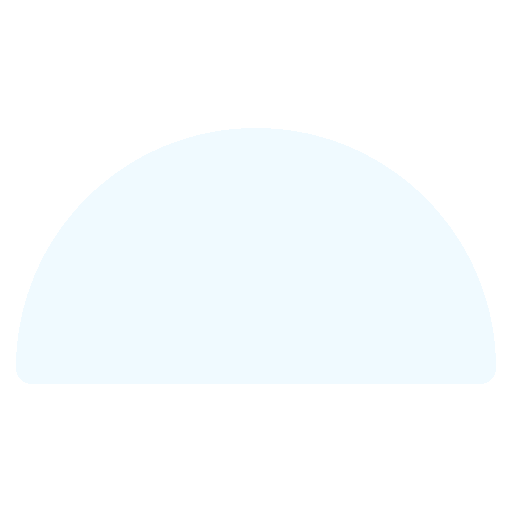
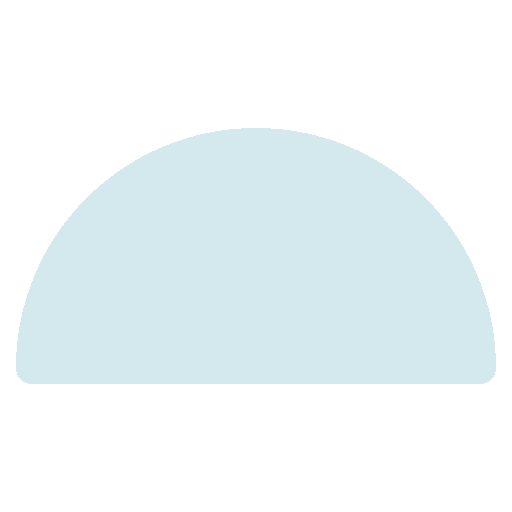
new css changes

diff --git a/css/style.css b/css/style.css
@@ -61,17 +61,17 @@ body img {
 }
 .TopNav div:nth-child(1) {
   /* background-color: #dbe6eb; */
-  background-color: #f1fbfe;
+  background-color: #ddf5fc;
 }
 .TopNav div:nth-child(2) {
   /* background-color: #c6deea; */
-  background-color: #e7f1f4;
+  background-color: #d8eef5;
 }
 .TopNav div:nth-child(3) {
   /* background-color: #bcd9e8; */
-  background-color: #e3edef;
+  background-color: #d2e9ee;
   /*border-bottom: 1vh solid #88afc2; */
-  border-bottom: 1vh solid rgb(192, 205, 212);
+  border-bottom: 1vh solid rgb(173, 192, 203);
 }
 
 .MainContent {
@@ -90,15 +90,15 @@ body img {
 }
 .BottomNav > div:nth-child(1) {
   background-color: rgb(245, 245, 245);
-  border-top: 1vh solid rgb(180, 194, 201);
+  border-top: 1vh solid rgb(184, 203, 213);
   /* border-top: 1vh solid #97c0d4; */
   width: 100%;
   z-index: 3;
 }
 .BottomNav > div:nth-child(2) {
-  background-color: #e5f1f3;
+  background-color: #d4e9ed;
   /* background-color: #dbe6eb; */
-  border-bottom: 1vh solid rgb(193, 212, 214);
+  border-bottom: 1vh solid #b4cfd5;
   /* border-bottom: 1vh solid #97c0d4; */
   z-index: 3;
 }
@@ -119,7 +119,7 @@ body img {
   width: 25vw;
   height: 12vh;
   border: none;
-  background-color: #e7f6f9;
+  background-color: #d4e9ed;
   /* background-color: #c6deea; */
   transition: transform 0.15s ease, box-shadow 0.3s ease;
   text-decoration: none;
@@ -238,7 +238,7 @@ body img {
 }
 
 .addTask {
-  filter: invert(60.67%);
+  filter: invert(15%);
   bottom: 3vh;
   z-index: 1;
 }
@@ -246,7 +246,6 @@ body img {
 .addTask2 {
   bottom: 2vh;
   z-index: 2;
-  filter: saturate(1.5);
 }
 
 .plusImg {
@@ -696,7 +695,7 @@ footer {
 }
 
 .pet-interactions {
-  background-color: hsl(208, 52%, 95%);
+  background-color: hsl(204, 29%, 97%);
   font-family: "Pixelify Sans";
   width: 25vw;
   height: 5vh;
@@ -710,12 +709,12 @@ footer {
 }
 
 .pet-interactions:hover {
-  background-color: rgb(225, 225, 225);
+  background-color: rgb(231, 245, 249);
   transform: translateY(-3px);
 }
 
 .pet-interactions:active {
-  background-color: rgb(210, 210, 210);
+  background-color: rgb(200, 213, 222);
   transform: scale(0.92);
 }
 
@@ -755,7 +754,7 @@ footer {
   height: 2.5vh;
 }
 .currencyBox {
-  background-color: hsl(208, 52%, 95%);
+  background-color: hsl(204, 29%, 97%);
   width: 20vw;
   border: 4px solid rgb(104, 104, 104);
   padding-left: 2vw;
@@ -816,7 +815,7 @@ footer {
   width: 20vw;
   text-align: center;
   height: 5vh;
-  background-color: hsl(208, 52%, 95%);
+  background-color: hsl(204, 29%, 97%);
   border-radius: 5px;
   border-color: #c5ced4;
   font-family: "Pixelify Sans";
@@ -831,7 +830,7 @@ footer {
 }
 
 .shopAndInventory button:active {
-  background-color: #d0d0d0;
+  background-color: #bdc8d7;
   transform: scale(0.92);
 }
 
@@ -889,7 +888,7 @@ footer {
 }
 
 .bagFrameBody {
-  background-color: #d2d9dd;
+  background-color: #d7e5e8;
   opacity: 90%;
   border-radius: 5px;
 }
@@ -901,7 +900,7 @@ footer {
   text-align: center;
 }
 .shopFrameBody {
-  background-color: #d2d9dd;
+  background-color: #d7e5e8;
   opacity: 90%;
   border-radius: 5px;
   align-content: center;
@@ -944,7 +943,7 @@ footer {
   height: 11vh;
   text-align: center;
   font-size: 1.7vh;
-  background-color: #dee5ea;
+  background-color: #c0ccd4;
   border-radius: 5px;
   transition: transform 0.25s ease, box-shadow 0.25s ease,
     background-color 0.25s ease;
@@ -954,7 +953,7 @@ footer {
   width: 13vw;
   height: 2.25vh;
   text-align: center;
-  background-color: #ecf5f9;
+  background-color: #e6f0f5;
   border-radius: 5px;
   font-family: "Pixelify Sans";
   pointer-events: none;
@@ -1085,7 +1084,7 @@ footer {
   font-weight: bolder;
   text-decoration: none;
   color: rgb(255, 255, 255);
-  background-color:#656a71;
+  background-color: #656a71;
   border-radius: 3px;
   padding: 0.75vw;
   width: 20vw;

diff --git a/styles/leaderboard.css b/styles/leaderboard.css
@@ -14,13 +14,14 @@
 
 .row.header {
   display: grid;
-  grid-template-columns: 70px 1fr 120px 100px;
+  grid-template-columns: 15% 45% 20% 20%;
   padding: 12px 20px;
   background: #ececff;
   border-radius: 10px;
   font-weight: 700;
   margin-bottom: 10px;
-  background-color: #c6e9fccc;
+  align-items: center;
+  background-color: #acc6d5cc;
 }
 
 #leaderboardRows {
@@ -29,9 +30,9 @@
 
 #leaderboardRows .row {
   display: grid;
-  grid-template-columns: 70px 1fr 120px 100px;
+  grid-template-columns: 10% 50% 20% 20%;
   padding: 14px 20px;
-  background-color: #b7d6e2;
+  background-color: #d8e8ef;
   margin-bottom: 10px;
   border-radius: 12px;
   align-items: center;
@@ -41,6 +42,7 @@
 .leaderboard-wrap {
   padding-left: 3vw;
   padding-right: 3vw;
+  padding-top: 3vh;
 }
 
 #leaderboardRows .row:hover {
@@ -59,4 +61,10 @@
   font-size: 1.2rem;
 }
 
+.who {
+  font-size: 1.5vh;
+}
 
+.meta {
+  font-size: 1.5vh;
+}

diff --git a/index.html b/index.html
@@ -83,7 +83,7 @@
             </div>
           </div>
           <div class="addTaskContainer">
-            <img class="addTask" alt="addTask" src="/images/half-circle.png" />
+            <img class="addTask" alt="addTask" src="/images/half-circle2.png" />
             <img
               class="addTask2"
               alt="addTask2"
